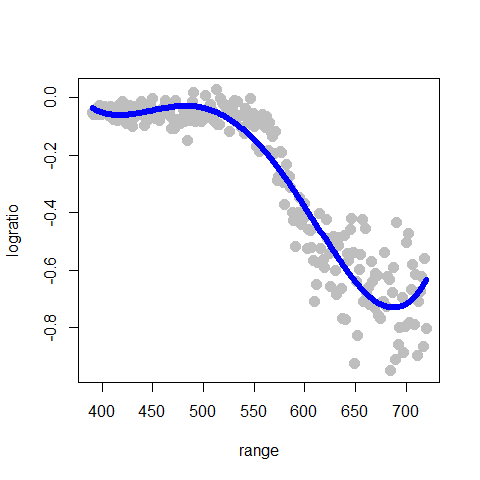
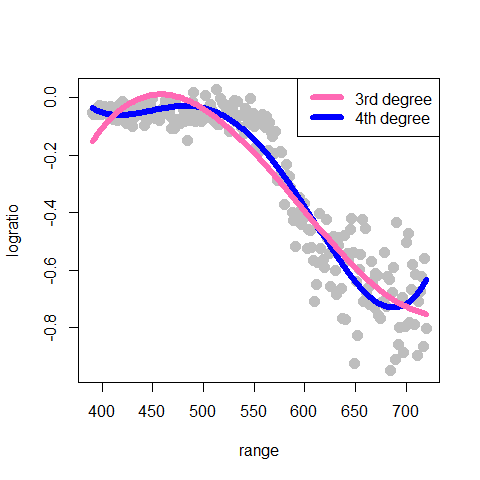
Are we there yet? (L8)

diff --git a/Lecture8/README.md b/Lecture8/README.md
@@ -11,14 +11,14 @@ The lecture slides are [here](STAT406-17-lecture-8-preliminary.pdf).
 Non-parametric regression
 =========================
 
-We now turn our attention to the situation where the regression function E(Y|X) is not necessarily linear. Furthermore, we will assume that its *form* is **unknown**. If we knew that the regression function was a linear combination of a sine and a cosine function, "E(Y|X=x) = a + b sin(x) + c cos(x)", where *a*, *b* and *c* are uknown, for example, then the problem would in fact be a linear regression problem. More in general, when the true regression function is known or assumed to belong to a family of functions that we can parametrize, then the estimation can be done via standard least squares. Instead here we focus on the case where the regression function is **completely unknown**.
+We now turn our attention to the situation where the regression function E(Y|X) is not necessarily linear. Furthermore, we will assume that its *form* is **unknown**. If we knew that the regression function was a linear combination of a sine and a cosine function, "E(Y|X=x) = a + b sin(x) + c cos(x)", where *a*, *b* and *c* are uknown, for example, then the problem would in fact be a linear regression problem. More in general, when the true regression function is known (or assumed) to belong to a family of functions that we can parametrize, then the estimation can be done via standard least squares. Instead here we focus on the case where the regression function is **completely unknown**.
 
-Below we will discuss two main approaches to estimating E(Y|X):
+In this note and the next one will discuss two ways to estimating E(Y|X):
 
 1.  one using bases (e.g. a polynomial basis, or a spline basis); and
 2.  one using kernels (aka local regression).
 
-To simplify the presentation (but also because of an intrinsic limitation of these methods, which will be discussed in more detail later), we will initially only consider the case where there is a single explanatory variable (i.e. X above is a scalar, not a vector).
+To simplify the presentation (but also because of an intrinsic limitation of these methods, which will be discussed in more detail later in the course), we will initially only consider the case where there is a single explanatory variable (i.e. X above is a scalar, not a vector).
 
 Polynomial regression
 ---------------------
@@ -32,13 +32,16 @@ plot(logratio ~ range, data=lidar, pch=19, col='gray', cex=1.5)
 
 ![](README_files/figure-markdown_github-ascii_identifiers/nonparam-1.png)
 
-In class we discussed the formal motivation to look into a polynomial approximation of the regression function. This argument, however, does not specify which degree of the approximating polynomial to use. Here we first try a 4th degree polynomial and the problem reduces to a linear regression one (see the lecture slides). We can use a command like `lm(logratio ~ range + range^2 + range^3 + range^4)`. However, this call to `lm` will not work as we intend it (I recommend that you check this and find out the reason why). Instead, we would need to use something like `lm(logratio ~ range + I(range^2) + I(range^3) + I(range^4))`. To avoid having to type a long formula, we can instead use the function `poly()` in `R` to generate the design matrix containing the desired powers of `range`, and plug that into the call to `lm()`. The code below fits such an approximation, plots the data and overlays the estimated regression function:
+In class we discussed the formal motivation to look into a polynomial approximation of the regression function. This argument, however, does not specify which degree of the approximating polynomial to use. Here we first try a 4th degree polynomial and the problem reduces to a linear regression one (see the lecture slides). We can use a command like `lm(logratio ~ range + range^2 + range^3 + range^4)`. However, this call to `lm` will not work as we intend it (I recommend that you check this and find out the reason why). Instead, we would need to use something like `lm(logratio ~ range + I(range^2) + I(range^3) + I(range^4))`. To avoid having to type a long formula, we can instead use the function `poly()` in `R` to generate the design matrix containing the desired powers of `range`, and plug that into the call to `lm()`. The code below fits two such approximations (a 3rd degree and a 4th degree polynomial), plots the data and overlays the estimated regression function:
 
 ``` r
 # Degree 4 polynomials
 pm <- lm(logratio ~ poly(range, 4), data=lidar)
 plot(logratio ~ range, data=lidar, pch=19, col='gray', cex=1.5)
 lines(predict(pm)[order(range)] ~ sort(range), data=lidar, lwd=6, col='blue')
+pm3 <- lm(logratio ~ poly(range, 3), data=lidar)
+lines(predict(pm3)[order(range)] ~ sort(range), data=lidar, lwd=6, col='hotpink')
+legend('topright', legend=c('3rd degree', '4th degree'), lwd=6, col=c('hotpink', 'blue'))
 ```
 
 ![](README_files/figure-markdown_github-ascii_identifiers/poly4-1.png)
@@ -99,11 +102,11 @@ lines(predict(ppm)[order(range)] ~ sort(range), data=lidar, lwd=6, col='hotpink'
 
 ![](README_files/figure-markdown_github-ascii_identifiers/splines1-1.png)
 
-There are better (numerically more stable) bases for the same linear space spanned by these spline functions. These bases have different numerical properties and can become cumbersome to describe. Here we use the function `bs` (in package `splines`) to build a B-spline basis. For an accesible discussion, see for example Section 4.1 of
+There are better (numerically more stable) bases for the same linear space spanned by these spline functions. These bases have different numerical properties and can become cumbersome to describe. Here we use the function `bs` (in package `splines`) to build a B-spline basis. For an accessible discussion, see for example Section 4.1 of
 
 > Wood, S. (2006). *Generalized additive models : an introduction with R*. Chapman & Hall/CRC, Boca Raton, FL. [Library link](http://resolve.library.ubc.ca/cgi-bin/catsearch?bid=8140311).
 
-Given the chosen knots and the degree of the splines (linear, quadratic, cubic, etc.) the set of possible functions (a linear space, really) is the same regardless of the basis we use. As a consequence, the estimated regression function should be identical for any basis we use (provided we do not run into serious numerical issues). To illustrate this fact, we will use a B-spline basis with the same 5 knots as above, and compare the estimated regression function with the one we obtained above using our **poor people** naive basis. The plot below overlays both fits (the naive one with a thick pink line as above, and the one using b-splines with a thinner blue line):
+Given the chosen knots and the degree of the splines (linear, quadratic, cubic, etc.) the set (linear space) of functions we are using to construct our regression estimate does not depend on the basis we use. As a consequence, the estimated regression function should be the same regardless of the basis we use (provided we do not run into serious numerical issues). To illustrate this fact, we will use a B-spline basis with the same 5 knots as above, and compare the estimated regression function with the one we obtained above using our **poor people** naive basis. The plot below overlays both fits (the naive one with a thick pink line as above, and the one using b-splines with a thinner blue line):
 
 ``` r
 library(splines)
@@ -243,7 +246,7 @@ Smoothing splines
 
 If we were to follow the approach discussed so far we would need to find an "optimal" of selecting the number of knots and their positions, **plus** the order of the spline basis. Although one could consider using cross-validation for this, we note that this would require considerable computational effort (we would need to perform an exhaustive search on a 3-dimensional grid).
 
-We saw in class that *natural cubic splines* provide a natural space to look for a good regression estimator. Furthermore, we only need to select one parameter--the penalty term, which can be done using any cross-validation "flavour" (although in this setting leave-one-out CV is particularly appealing, as we discussed in class).
+We saw in class that *natural cubic splines* provide a natural *optimal* space to look for a good regression estimator. Furthermore, we only need to select one parameter--the penalty term, which can be done using any cross-validation "flavour" (although in this setting leave-one-out CV is particularly appealing, as we discussed in class).
 
 <!-- our approach, showing -->
 <!-- that we only need to consider regularized (penalized) *natural cubic splines*  -->
@@ -302,7 +305,7 @@ lines(tmp$y ~ tmp$x, lwd = 6, col = "tomato3")
 Selecting an "optimal" penalty parameter
 ----------------------------------------
 
-The function `smooth.spline` will compute an optimal value for the penalty term using leave-one-out cross-validation, if we set the argument `cv` to `TRUE`:
+As discussed in class, an "optimal" natural cubic spline can be found using cross-validation, and for these linear predictors, leave-one-out cross-validation is particularly attractive (in terms of computational cost). The function `smooth.spline` in `R` will compute (and use) an optimal value for the penalty term using leave-one-out cross-validation when we set the argument `cv = TRUE`:
 
 ``` r
 tmp.cv <- smooth.spline(x = lidar$range, y = lidar$logratio, cv = TRUE, all.knots = TRUE)
@@ -313,7 +316,7 @@ lines(tmp.cv$y ~ tmp.cv$x, lwd = 6, col = "blue")
 
 ![](README_files/figure-markdown_github-ascii_identifiers/smoothing.cv1-1.png)
 
-Note that the optimal value found for `spar` is returned in the element `$spar` of the object returned by `smooth.spline`. Just as a **sanity check** we can now call `smooth.spline` with `cv = FALSE` and manually set `spar` to this optimal value, and verify that we obtain the same fit:
+Note that the optimal value found for the regularization parameter (`spar`) is also returned in the element `$spar` of the object returned by `smooth.spline`. Just as a **sanity check** we can now call `smooth.spline` with `cv = FALSE` and manually set `spar` to this optimal value, and verify that we obtain the same fit:
 
 ``` r
 plot(logratio ~ range, data = lidar, pch = 19, col = "gray", cex = 1.5)
